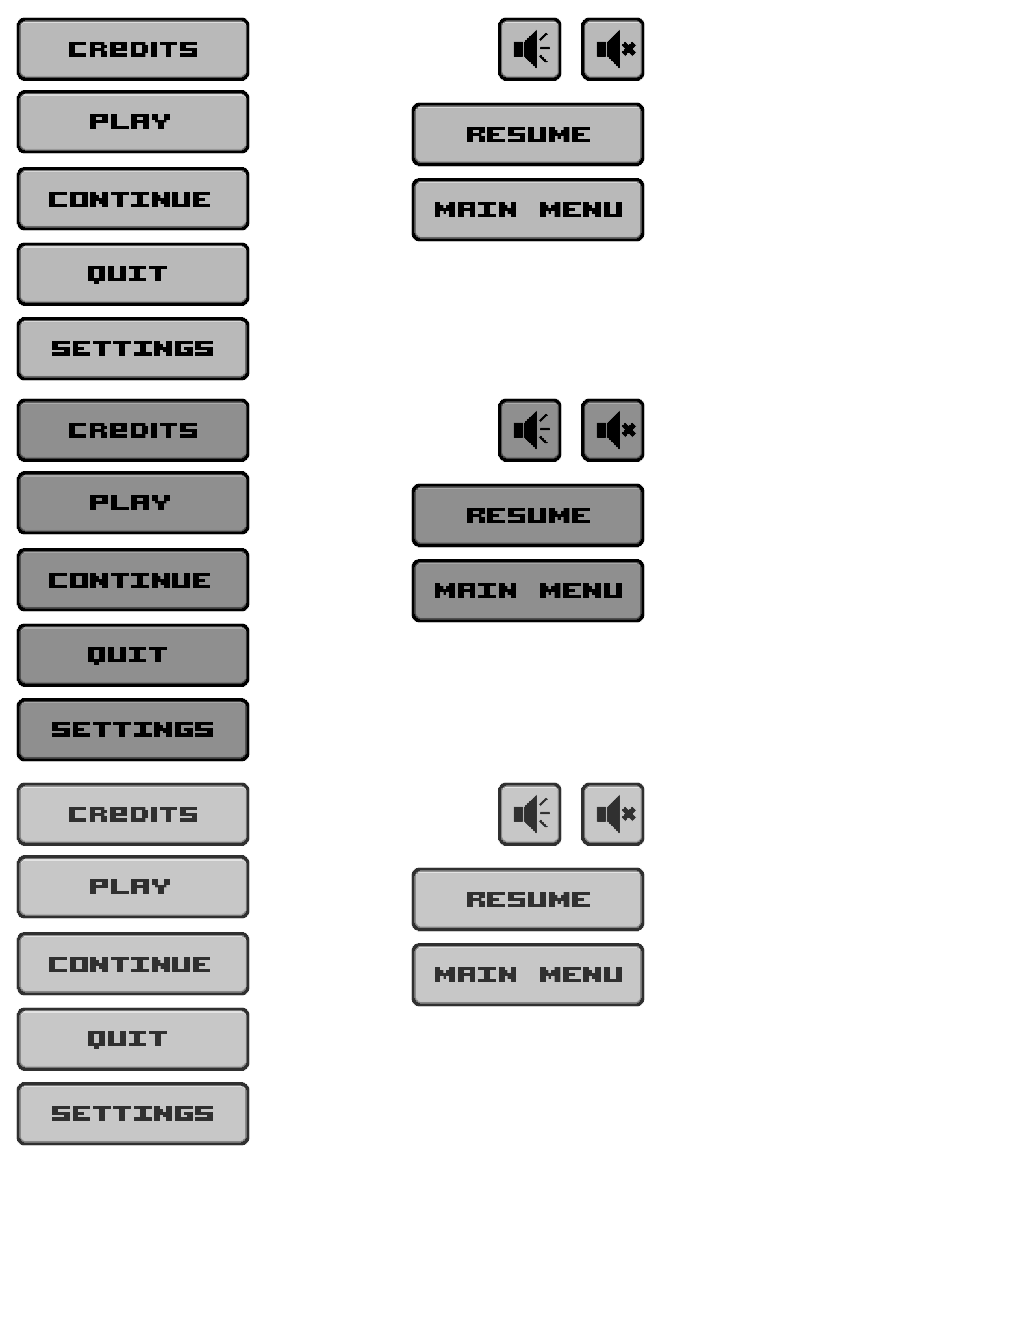
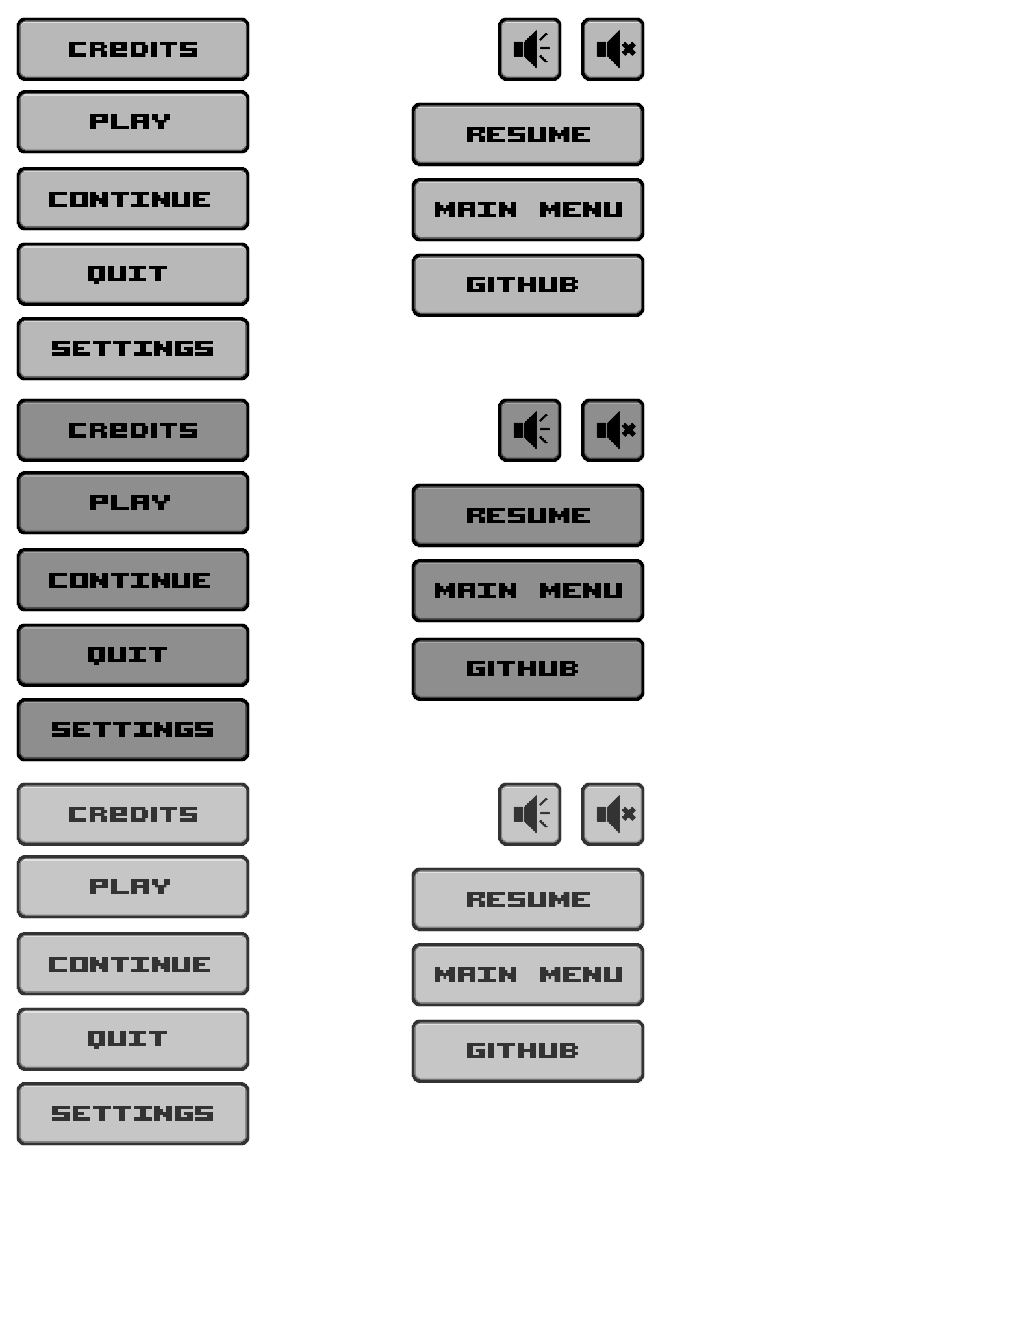
github link, continue button

Changed region(s): [[0.375, 0.7432, 0.6562, 0.8361], [0.375, 0.1858, 0.6562, 0.2477], [0.375, 0.4645, 0.6562, 0.5264]]

diff --git a/2D-Platformer_v2/Motor2D/j1UI.cpp b/2D-Platformer_v2/Motor2D/j1UI.cpp
@@ -56,22 +56,25 @@ bool j1UI::Start()
 	bool ret = true;
 	backgroundImage = CreateUIImage({ 67,49,266,510 }, App->tex->Load("UI/HUD_Menus.png"), { 0,0 }, { App->win->GetWidth() - 200,100 }, TYPE::UI_Image);
 	
-	playButton = (UI_Button*)CreateUIButton({ 16,90,234,64 }, { 15,855,234,64 }, { 16,471,234,64 }, App->tex->Load("UI/Buttons.png"), { 0,40 }, { 0,0 }, TYPE::UI_Button, ButtonType::Start, backgroundImage);
+	playButton = (UI_Button*)CreateUIButton({ 16,90,234,64 }, { 15,855,234,64 }, { 16,471,234,64 }, App->tex->Load("UI/Buttons.png"), { 0,25 }, { 0,0 }, TYPE::UI_Button, ButtonType::Start, backgroundImage);
 
-	continueButton = (UI_Button*)CreateUIButton({ 16,167,234,64 }, { 15,932,234,64 }, { 16,548,234,64 }, App->tex->Load("UI/Buttons.png"), { 0,123 }, { 0,0 }, TYPE::UI_Button, ButtonType::Continue, backgroundImage);
+	continueButton = (UI_Button*)CreateUIButton({ 16,167,234,64 }, { 15,932,234,64 }, { 16,548,234,64 }, App->tex->Load("UI/Buttons.png"), { 0,103 }, { 0,0 }, TYPE::UI_Button, ButtonType::Continue, backgroundImage);
 	continueButton->isEnabled = false;
 	
-	settingsButton = (UI_Button*)CreateUIButton({ 16,317,234,64 }, { 15,1082,234,64 }, { 16,698,234,64 }, App->tex->Load("UI/Buttons.png"), { 0,206 }, { 0,0 }, TYPE::UI_Button, ButtonType::Settings, backgroundImage);
+	settingsButton = (UI_Button*)CreateUIButton({ 16,317,234,64 }, { 15,1082,234,64 }, { 16,698,234,64 }, App->tex->Load("UI/Buttons.png"), { 0,186 }, { 0,0 }, TYPE::UI_Button, ButtonType::Settings, backgroundImage);
 
-	creditsButton = (UI_Button*)CreateUIButton({ 16,18,234,64 }, { 15,783,234,64 }, { 16,399,234,64 }, App->tex->Load("UI/Buttons.png"), { 0,289 }, { 0,0 }, TYPE::UI_Button, ButtonType::Credits, backgroundImage);
+	creditsButton = (UI_Button*)CreateUIButton({ 16,18,234,64 }, { 15,783,234,64 }, { 16,399,234,64 }, App->tex->Load("UI/Buttons.png"), { 0,269 }, { 0,0 }, TYPE::UI_Button, ButtonType::Credits, backgroundImage);
 
-	quitButton = (UI_Button*)CreateUIButton({ 16,243,234,64 }, { 15,1008,234,64 }, { 16,624,234,64 }, App->tex->Load("UI/Buttons.png"), { 0,372 }, { 0,0 }, TYPE::UI_Button, ButtonType::Quit, backgroundImage);
+	quitButton = (UI_Button*)CreateUIButton({ 16,243,234,64 }, { 15,1008,234,64 }, { 16,624,234,64 }, App->tex->Load("UI/Buttons.png"), { 0,352 }, { 0,0 }, TYPE::UI_Button, ButtonType::Quit, backgroundImage);
+
+	githubButton = (UI_Button*)CreateUIButton({ 411,253,234,64 }, { 411,1019,234,64 }, { 411,637,234,64 }, App->tex->Load("UI/Buttons.png"), { 0,430 }, { 0,0 }, TYPE::UI_Button, ButtonType::Github, backgroundImage);
 
 	backgroundImage->childs.add(playButton);
 	backgroundImage->childs.add(continueButton);
 	backgroundImage->childs.add(settingsButton);
 	backgroundImage->childs.add(creditsButton);
 	backgroundImage->childs.add(quitButton);
+	backgroundImage->childs.add(githubButton);
 
 
 	//Pausemenu
@@ -162,7 +165,14 @@ void j1UI::UpdateUI()
 		UI_Functions::ChooseLivesToShow(fiveLives, fourLives, threeLives, twoLives, oneLives, zeroLives);
 		if (!App->pause)
 		{
+			if (App->scene->loading)
+			{
+				timer.Start();
+			}
+			
 			timer_int = timer.ReadSec() + pause_timer_int;
+			timer_int = timer.ReadSec() + pause_timer_int;
+			loading_timer_int = timer.ReadSec() + pause_timer_int;
 			resetPause = true;
 		}
 		if (App->pause)
@@ -233,7 +243,14 @@ UI_InputText* j1UI::CreateUIInputText(p2Point<int> size, p2Point<int> offset, p2
 
 void j1UI::SubstractLives()
 {
-	score = 0;
+	if (App->scene->preservecoins)
+	{
+		score = App->scene->score_preserved;
+	}
+	else
+	{
+		score = 0;
+	}
 	lives--;
 	if (lives == 0)
 	{

diff --git a/2D-Platformer_v2/Motor2D/j1Scene.cpp b/2D-Platformer_v2/Motor2D/j1Scene.cpp
@@ -40,7 +40,7 @@ bool j1Scene::Start()
 	hasExit = false;
 	debug_tex = App->tex->Load("maps/path2.png");
 	DecideMapToLoad();
-	if (strcmp(current_level.GetString(), "maps/A5.tmx") != 0)
+	if (strcmp(current_level.GetString(), "maps/A5.tmx") != 0 && !loading)
 	{
 		App->ui->timer.Start();
 	}
@@ -156,6 +156,15 @@ bool j1Scene::Load(pugi::xml_node& data)
 			enemy = "enemy_";
 			id++;
 		}	
+
+		//Lives
+		App->ui->lives = data.child("lives").attribute("live_count").as_int();
+
+		//Score
+		App->ui->score = data.child("score").attribute("score_count").as_int();
+
+		//Time
+		App->ui->timer_int = data.child("timer").attribute("timer_load").as_int();
 	
 	return true;
 }
@@ -261,8 +270,17 @@ bool j1Scene::Save(pugi::xml_node& data) const
 		}
 		item = item->next;
 	}
+	//---------Lives---------//
+	pugi::xml_node lives = data.append_child("lives");
+	lives.append_attribute("live_count") = App->ui->lives;
 
+	//---------Score---------//
+	pugi::xml_node score = data.append_child("score");
+	score.append_attribute("score_count") = App->ui->score;
 
+	//---------Time----------//
+	pugi::xml_node timer = data.append_child("timer");
+	timer.append_attribute("timer_load") = App->ui->timer_int;
 	return true;
 }
 #pragma endregion
@@ -373,14 +391,16 @@ void j1Scene::ColliderMapToLoad(Collider* c2)
 		App->debug->CallFade();
 		c2->Enabled = true;
 	}
-	else if (c2->swap == A3_TO_A2)
+	/*else if (c2->swap == A3_TO_A2)
 	{
 		destination_level = "maps/A2.tmx";
 		App->debug->CallFade();
 		c2->Enabled = true;
-	}
+	}*/
 	else if (c2->swap == A2_TO_A3)
 	{
+		preservecoins = true;
+		score_preserved = App->ui->score;
 		destination_level = "maps/A3.tmx";
 		App->debug->CallFade();
 		c2->Enabled = true;

diff --git a/2D-Platformer_v2/Motor2D/UI_Button.cpp b/2D-Platformer_v2/Motor2D/UI_Button.cpp
@@ -60,7 +60,8 @@ void UI_Button::OnClick()
 		UI_Functions::ShowUI(App->ui->coin_background, App->ui->timer_background,App->ui->coin_image,App->ui->timer_image);
 		break;
 	case Continue:
-		UI_Functions::ContinueButton();
+		UI_Functions::ContinueButton(App->ui->backgroundImage);
+		UI_Functions::ShowUI(App->ui->coin_background, App->ui->timer_background, App->ui->coin_image, App->ui->timer_image);
 		break;
 	case Settings:
 		UI_Functions::SettingsButton(App->ui->settingsBackground, GetUIParent());
@@ -79,6 +80,9 @@ void UI_Button::OnClick()
 		break;
 	case MainScreen:
 		UI_Functions::BackToMainMenu(App->ui->pausemenuBackground, App->ui->backgroundImage);
+		break;
+	case Github:
+		ShellExecuteA(NULL, "open", "https://development-citm.github.io/2D-Platformer/", NULL, NULL, SW_SHOWNORMAL);
 		break;
 	case Quit:
 		UI_Functions::QuitButton();

diff --git a/2D-Platformer_v2/Motor2D/j1UI.h b/2D-Platformer_v2/Motor2D/j1UI.h
@@ -62,6 +62,7 @@ public:
 	j1Timer timer;
 	j1Timer pause_timer;
 	int pause_timer_int = 0;
+	int loading_timer_int = 0;
 	int timer_int = 0;
 	bool resetPause = true;
 
@@ -75,6 +76,7 @@ public:
 	UI_Button* creditsButton = nullptr;
 	UI_Button* settingsButton = nullptr;
 	UI_Button* quitButton = nullptr;
+	UI_Button* githubButton = nullptr;
 
 	/*----PAUSE MENU----*/
 	//Images

diff --git a/2D-Platformer_v2/Motor2D/UI_Element.cpp b/2D-Platformer_v2/Motor2D/UI_Element.cpp
@@ -72,7 +72,14 @@ void UI_Element::Draw()
 		}
 	}
 
-	if (!App->scene->saving) {
+	if (App->scene->saving) {
+		UI_Button* button = (UI_Button*)this;
+		if (button->button_type == ButtonType::Continue) {
+			button->isEnabled = true;
+		}
+	}
+	else
+	{
 		UI_Button* button = (UI_Button*)this;
 		if (button->button_type == ButtonType::Continue) {
 			button->isEnabled = false;

diff --git a/2D-Platformer_v2/Motor2D/UI_Functions.cpp b/2D-Platformer_v2/Motor2D/UI_Functions.cpp
@@ -28,8 +28,12 @@ void UI_Functions::StartButton(UI_Element* current)
 
 
 
-void UI_Functions::ContinueButton()
+void UI_Functions::ContinueButton(UI_Element* menu)
 {
+	App->debug->CallFade();
+	App->LoadGame("save_game.xml");
+	menu->ToggleHide(true);
+	App->pause = false;
 }
 
 void UI_Functions::SettingsButton(UI_Element* settings, UI_Element* mainmenu)

diff --git a/2D-Platformer_v2/Motor2D/UI_Functions.h b/2D-Platformer_v2/Motor2D/UI_Functions.h
@@ -10,7 +10,7 @@ class UI_Functions
 
 public:
 	static void StartButton(UI_Element*);
-	static void ContinueButton();
+	static void ContinueButton(UI_Element*);
 	static void SettingsButton(UI_Element*, UI_Element*);
 	static void ActiveSoundButton(bool flag);
 	static void ReturnButton(UI_Element*, UI_Element*);

diff --git a/2D-Platformer_v2/Motor2D/j1Scene.h b/2D-Platformer_v2/Motor2D/j1Scene.h
@@ -87,6 +87,8 @@ public:
 
 	bool hasExit = false;
 	bool pause = false;
+	bool preservecoins = false;
+	int score_preserved = 0;
 
 	Collider* exitCollider = nullptr;
 	SDL_Texture* debug_tex;

diff --git a/2D-Platformer_v2/Motor2D/j1Main.cpp b/2D-Platformer_v2/Motor2D/j1Main.cpp
@@ -33,8 +33,6 @@ int main(int argc, char* args[])
 
 	MainState state = MainState::CREATE;
 	int result = EXIT_FAILURE;
-	
-
 
 	while(state != EXIT)
 	{

diff --git a/2D-Platformer_v2/Motor2D/UI_Button.h b/2D-Platformer_v2/Motor2D/UI_Button.h
@@ -13,6 +13,7 @@ enum ButtonType {
 	Credits,
 	Quit,
 	MainScreen,
+	Github,
 };
 
 class UI_Button : public UI_Element
